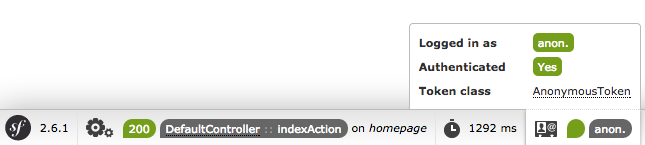
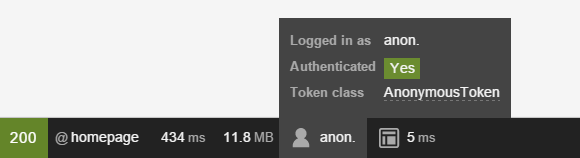
1. Połączenie wersji 2.8 z 2.7 2. Zaktualizowanie obrazów do wersji 2.8 3. zaktualizowanie /best_practices/* do wersji 2.8

diff --git a/best_practices/forms.rst b/best_practices/forms.rst
@@ -37,10 +37,10 @@ w ich własnych klasach PHP::
         {
             $builder
                 ->add('title')
-                ->add('summary', 'textarea')
-                ->add('content', 'textarea')
-                ->add('authorEmail', 'email')
-                ->add('publishedAt', 'datetime')
+                ->add('summary', TextareaType::class)
+                ->add('content', TextareaType::class)
+                ->add('authorEmail', EmailType::class)
+                ->add('publishedAt', DateTimeType::class)
             ;
         }
 
@@ -50,11 +50,6 @@ w ich własnych klasach PHP::
                 'data_class' => 'AppBundle\Entity\Post'
             ));
         }
-
-        public function getName()
-        {
-            return 'post';
-        }
     }
 
 .. best-practice::
@@ -63,8 +58,8 @@ w ich własnych klasach PHP::
     chyba że, używasz innych klas formularzowych, jak na przykład transformery
     danych.
 
-W celu użycia klasy trzeba zastosować metodę ``createForm`` oraz stworzyć instancję
-nowej klasy::
+W celu użycia klasy, trzeba zastosować metodę ``createForm`` i przekazać w pełni
+kwalifikowaną nazwę klasy::
 
     // ...
     use AppBundle\Form\PostType;
@@ -73,7 +68,7 @@ nowej klasy::
     public function newAction(Request $request)
     {
         $post = new Post();
-        $form = $this->createForm(new PostType(), $post);
+        $form = $this->createForm(PostType::class, $post);
 
         // ...
     }
@@ -86,7 +81,7 @@ Można również
 Nie jest to jednak zalecane, chyba że planuje się wielokrotne wykorzystywanie
 nowego typu form w wielu miejscach aplikacji lub chce się osadzać go w innym
 formularzu bezpośrednio albo za pomocą
-:doc:`typu collection </reference/forms/types/collection>`.
+:doc:`CollectionType </reference/forms/types/collection>`.
 
 Dla większości formularzy, które są uzywane do edycji lub tworzenia czegoś,
 rejestrowanie formularza jako usługi jest nadmiernym obciążeniem i powoduje,
@@ -115,7 +110,7 @@ się zakres stosowania takiego formularza:
         {
             $builder
                 // ...
-                ->add('save', 'submit', array('label' => 'Create Post'))
+               ->add('save', SubmitType::class, array('label' => 'Create Post'))
             ;
         }
 
@@ -130,6 +125,7 @@ zła. Zamiast tego, niektórzy programiści konfoguruja przyciski formularza w k
 
     use Symfony\Component\HttpFoundation\Request;
     use Symfony\Bundle\FrameworkBundle\Controller\Controller;
+    use Symfony\Component\Form\Extension\Core\Type\SubmitType;
     use AppBundle\Entity\Post;
     use AppBundle\Form\PostType;
 
@@ -140,8 +136,8 @@ zła. Zamiast tego, niektórzy programiści konfoguruja przyciski formularza w k
         public function newAction(Request $request)
         {
             $post = new Post();
-            $form = $this->createForm(new PostType(), $post);
-            $form->add('submit', 'submit', array(
+            $form = $this->createForm(PostType::class, $post);
+            $form->add('submit', SubmitType::class, array(
                 'label' => 'Create',
                 'attr'  => array('class' => 'btn btn-default pull-right')
             ));
@@ -227,27 +223,8 @@ oddzielna akcję ``createAction``, która tylko przetwarza zgłoszony formularz.
 Obydwie akcje będą niemal identyczne. Prościej jest więc zastosować tylko ``newAction``
 do obsługi wszystkiego.
 
-Po drugie, dla jasnosci, zalecamy stosowanie ``$form->isSubmitted()`` w wyrażeniu
+Po drugie, dla jasności, zalecamy stosowanie ``$form->isSubmitted()`` w wyrażeniu
 ``if``. Nie jest to technicznie konieczne, ponieważ ``isValid()`` najpierw wywołuje
 ``isSubmitted()``. Jednak bez tego, przepływ przetwarzania nie czyta się dobrze,
 wyglądając tak, jakby formularza był zawsze przetwarzany (nawet przy żądaniu GET).
 
-Własne typy pól formularza
---------------------------
-
-.. best-practice::
-
-    Dodawaj przedrostek ``app_`` do nazwy niestandardowych typów pól formularza,
-    aby uniknąć kolizji nazewniczej.
-
-Własne typy pól formularza dziedziczą z klasy ``AbstractType``, która definiuje
-metodę ``getName()`` używaną do konfiguracji nazwy tego typu formularza. Nazwy
-te muszą być unikalne w aplikacji.
-
-Jeśli własny typ formularza używa tej samej nazwy co wszystkie wbudowany typ
-formularzowy Symfony, to go zastąpi. To samo dzieje się, gdy nazwa własnego typu
-formularza pasuje do typu zdefiniowanego w pakiecie zewnętrznym, zainstalowanym
-w aplikacji.
-
-Dodając przedrostek ``app_`` do nazwy wlasnego typu pola formularza unika się
-kolizji nazewniczej, która może prowadzić do poważnych błędów debugowania.

diff --git a/best_practices/security.rst b/best_practices/security.rst
@@ -291,39 +291,66 @@ wyborcę. który implementuje tą sama logikę ``getAuthorEmail``, jaką użyto 
 .. code-block:: php
    :linenos:
 
-    namespace AppBundle\Security;
-
-    use Symfony\Component\Security\Core\Authorization\Voter\AbstractVoter;
+       use Symfony\Component\Security\Core\Authentication\Token\TokenInterface;
+    use Symfony\Component\Security\Core\Authorization\AccessDecisionManagerInterface;
+    use Symfony\Component\Security\Core\Authorization\Voter\Voter;
     use Symfony\Component\Security\Core\User\UserInterface;
+    use AppBundle\Entity\Post;
 
-    // AbstractVoter class requires Symfony 2.6 or higher version
-    class PostVoter extends AbstractVoter
+    // Klasa Voter wymaga Symfony 2.8 lub wersji wyższej
+    class PostVoter extends Voter
     {
         const CREATE = 'create';
         const EDIT   = 'edit';
 
-        protected function getSupportedAttributes()
+        /**
+         * @var AccessDecisionManagerInterface
+         */
+        private $decisionManager;
+
+        public function __construct(AccessDecisionManagerInterface $decisionManager)
         {
-            return array(self::CREATE, self::EDIT);
+            $this->decisionManager = $decisionManager;
         }
 
-        protected function getSupportedClasses()
+        protected function supports($attribute, $subject)
         {
-            return array('AppBundle\Entity\Post');
+            if (!in_array($attribute, array(self::CREATE, self::EDIT))) {
+                return false;
+            }
+
+            if (!$subject instanceof Post) {
+                return false;
+            }
+
+            return true;
         }
 
-        protected function isGranted($attribute, $post, $user = null)
+        protected function voteOnAttribute($attribute, $subject, TokenInterface $token)
         {
+            $user = $token->getUser();
+            /** @var Post */
+            $post = $subject; // $subject must be a Post instance, thanks to the supports method
+
             if (!$user instanceof UserInterface) {
                 return false;
             }
 
-            if ($attribute === self::CREATE && in_array('ROLE_ADMIN', $user->getRoles(), true)) {
-                return true;
-            }
+            switch ($attribute) {
+                case self::CREATE:
+                    // if the user is an admin, allow them to create new posts
+                    if ($this->decisionManager->decide($token, array('ROLE_ADMIN'))) {
+                        return true;
+                    }
 
-            if ($attribute === self::EDIT && $user->getEmail() === $post->getAuthorEmail()) {
-                return true;
+                    break;
+                case self::EDIT:
+                    // if the user is the author of the post, allow them to edit the posts
+                    if ($user->getEmail() === $post->getAuthorEmail()) {
+                        return true;
+                    }
+
+                    break;
             }
 
             return false;
@@ -340,6 +367,7 @@ Do włączenia wyborcy w aplikacji, trzeba zdefiniować nową usługę:
         # ...
         post_voter:
             class:      AppBundle\Security\PostVoter
+            arguments: ['@security.access.decision_manager']
             public:     false
             tags:
                - { name: security.voter }
@@ -369,7 +397,7 @@ lub przez jeszcze łatwiejszy skrót w akcji kontrolera:
      */
     public function editAction($id)
     {
-        $post = // query for the post ...
+        $post = ...; // query for the post
 
         $this->denyAccessUnlessGranted('edit', $post);
 

diff --git a/best_practices/web-assets.rst b/best_practices/web-assets.rst
@@ -1,8 +1,8 @@
 .. index::
    double: aktywa; najlepsze praktyki
 
-Aktywa siweciowe
-================
+Aktywa sieciowe
+===============
 
 :term:`Aktywa sieciowe <aktywa>`, to takie rzeczy jak skrypty CSS i JavaScript,
 pliki obrazów itd., które tworzą część frontową witryny i sprawiają, że wygląda
@@ -39,6 +39,8 @@ znacznie prostsze:
 
 Stosowanie aktywów
 ------------------
+
+.. include:: /cookbook/assetic/_standard_edition_warning.inc
 
 Obecnie już unika się już tworzenia statycznych plików CSS i JavaScript oraz
 ręcznego dołączania tych plików do szablonów. Zamiast tego najczęściej, stosuje
